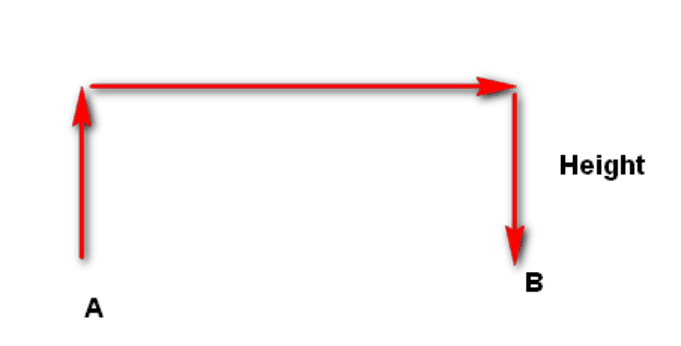
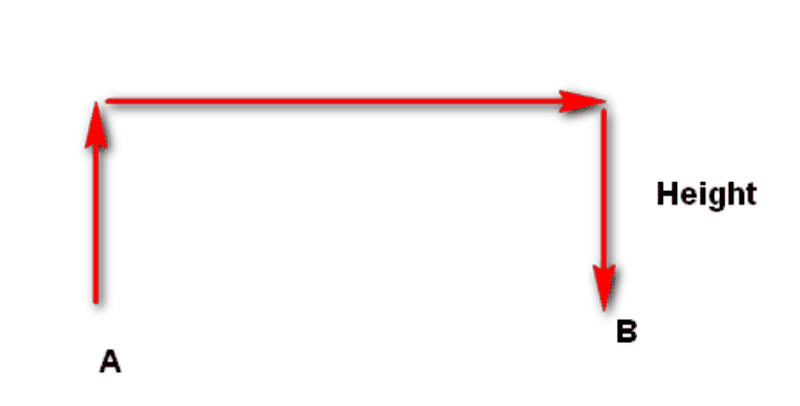
docs: align paired figures in kinematics chapter

diff --git a/docs/dobot-magician/fundamentos/cinematica.md b/docs/dobot-magician/fundamentos/cinematica.md
@@ -20,12 +20,12 @@ Magician, ele é um volume em forma de "meia rosca": o alcance máximo é de
 <div class="grid" markdown>
 
 <figure markdown="span">
-  ![Workspace visto de lado](../assets/workspace-lateral.png){ width="380" }
+  ![Workspace visto de lado](../assets/workspace-lateral.png)
   <figcaption>Figura 3.1: Workspace em vista lateral. Braço traseiro de 135 mm e antebraço de 147 mm. Fonte: User Guide, fig. 2.2.</figcaption>
 </figure>
 
 <figure markdown="span">
-  ![Workspace visto de cima](../assets/workspace-superior.png){ width="250" }
+  ![Workspace visto de cima](../assets/workspace-superior.png)
   <figcaption>Figura 3.2: Workspace em vista superior, com raio de 320 mm e 180° de rotação da base. Fonte: User Guide, fig. 2.3.</figcaption>
 </figure>
 
@@ -40,19 +40,15 @@ Magician, ele é um volume em forma de "meia rosca": o alcance máximo é de
 
 ## 3.2 Sistemas de coordenadas
 
-<div class="grid" markdown>
-
 <figure markdown="span">
-  ![Coordenadas de junta](../assets/coordenadas-juntas.png){ width="360" }
+  ![Coordenadas de junta](../assets/coordenadas-juntas.png){ width="420" }
   <figcaption>Figura 3.3: Sistema de coordenadas de juntas. Fonte: User Guide, fig. 2.4.</figcaption>
 </figure>
 
 <figure markdown="span">
-  ![Coordenadas cartesianas](../assets/coordenadas-cartesianas.jpg){ width="460" }
+  ![Coordenadas cartesianas](../assets/coordenadas-cartesianas.jpg){ width="640" }
   <figcaption>Figura 3.4: Sistema de coordenadas cartesiano. Fonte: User Guide, fig. 2.5.</figcaption>
 </figure>
-
-</div>
 
 **Coordenadas de junta**: definidas pelos ângulos das juntas, todas rotativas,
 com sentido positivo anti-horário.
@@ -177,12 +173,12 @@ Movimento manual pelos botões do painel de controle do braço, eixo a eixo:
 <div class="grid" markdown>
 
 <figure markdown="span">
-  ![MOVJ e MOVL](../assets/movj-movl.png){ width="300" }
+  ![MOVJ e MOVL](../assets/movj-movl.png)
   <figcaption>Figura 3.5: MOVJ (trajetória livre) e MOVL (linha reta). Fonte: User Guide, fig. 2.6.</figcaption>
 </figure>
 
 <figure markdown="span">
-  ![JUMP](../assets/jump.png){ width="380" }
+  ![JUMP](../assets/jump.png)
   <figcaption>Figura 3.6: JUMP, trajetória em forma de "porta". Fonte: User Guide, fig. 2.7.</figcaption>
 </figure>
 
